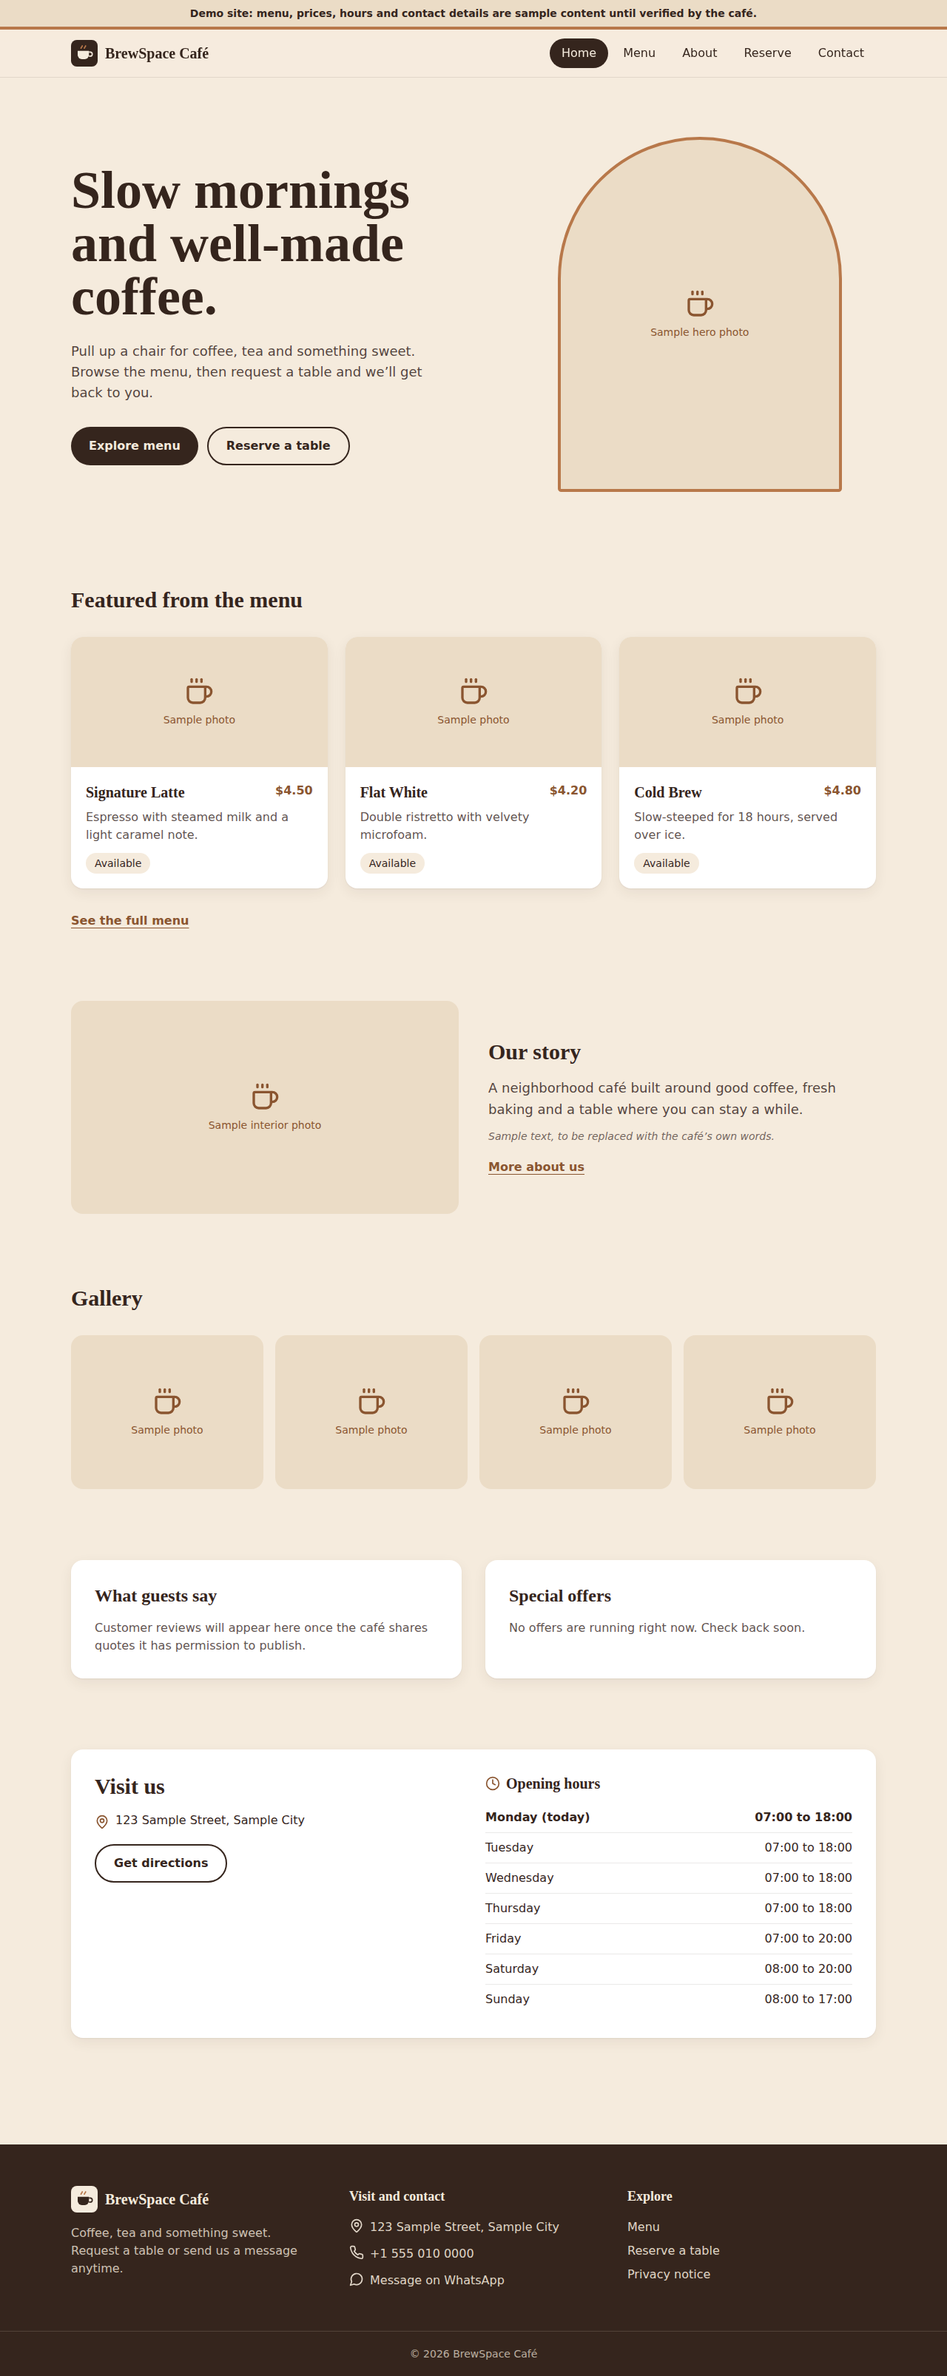
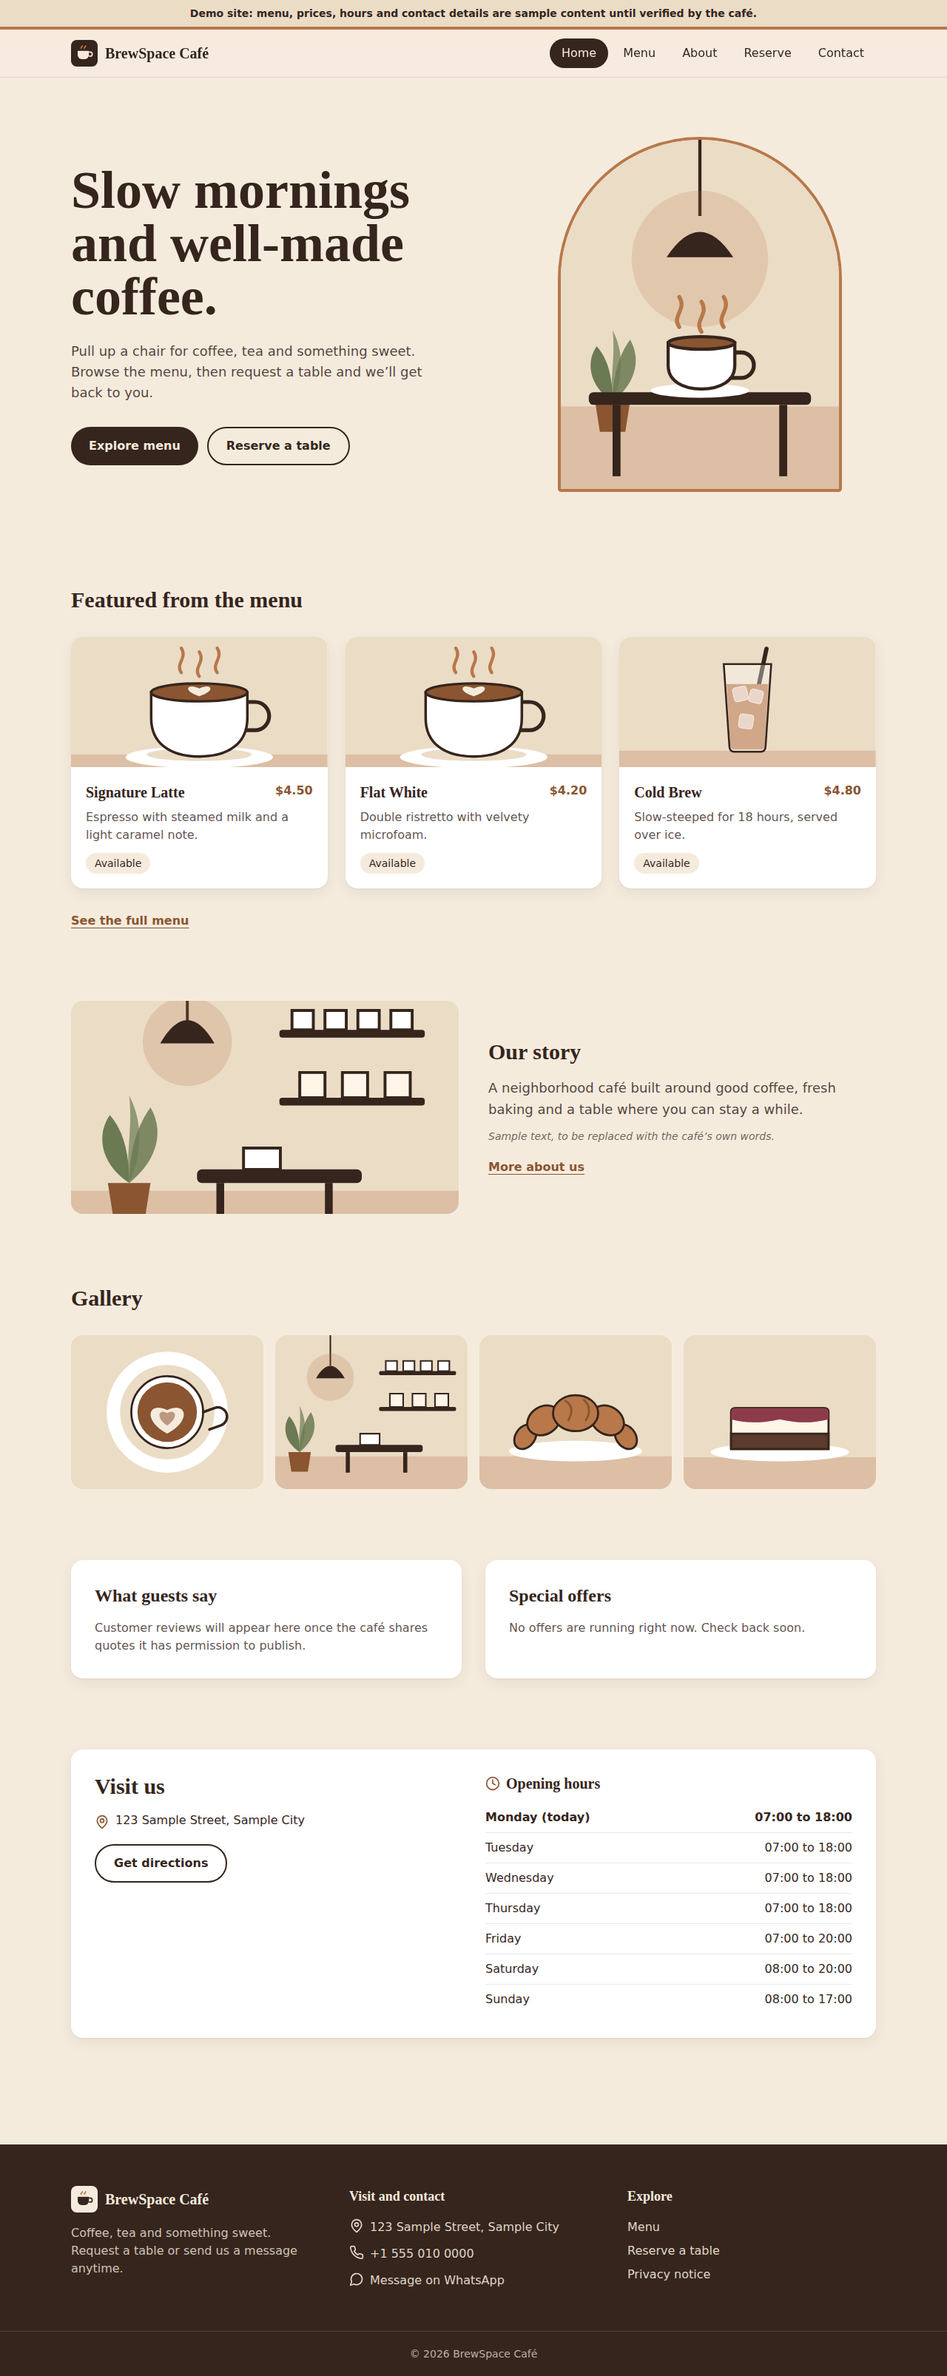
Add original illustrations for hero, gallery, about and menu cards; docs

diff --git a/client/src/components/illustrations.jsx b/client/src/components/illustrations.jsx
@@ -1,0 +1,157 @@
+// Original brand-palette illustrations (no third-party artwork, no licensing issues).
+// They stand in for photography until the café supplies real photos.
+const C = {
+  cream: '#F5EBDD', deep: '#EBDCC6', espresso: '#35251D', caramel: '#B8784A',
+  dark: '#8A5530', white: '#FFFFFF', milk: '#FFF6E8', crust: '#5B3B2B', berry: '#8C3B4A', leaf: '#6B7A52',
+};
+
+function Frame({ label, bg = C.deep, vb = '0 0 400 300', children }) {
+  return (
+    <svg viewBox={vb} preserveAspectRatio="xMidYMid slice" role="img" aria-label={label} className="block h-full w-full">
+      <rect width="100%" height="100%" fill={bg} />
+      {children}
+    </svg>
+  );
+}
+const Table = ({ y = 232 }) => <rect x="0" y={y} width="400" height={300 - y} fill={C.caramel} fillOpacity=".28" />;
+const Steam = ({ x = 200, y = 100 }) => (
+  <g fill="none" stroke={C.caramel} strokeWidth="5" strokeLinecap="round">
+    <path d={`M${x - 28} ${y} c-10 -14 10 -22 0 -38`} />
+    <path d={`M${x} ${y + 6} c-10 -14 10 -22 0 -38`} />
+    <path d={`M${x + 28} ${y} c-10 -14 10 -22 0 -38`} />
+  </g>
+);
+
+export const Latte = () => (
+  <Frame label="Illustration of a latte in a white cup">
+    <Table />
+    <ellipse cx="200" cy="236" rx="115" ry="17" fill={C.white} />
+    <ellipse cx="200" cy="232" rx="82" ry="10" fill={C.deep} />
+    <path d="M275 150 h12 a22 22 0 0 1 0 44 h-16" fill="none" stroke={C.espresso} strokeWidth="6" strokeLinecap="round" />
+    <path d="M125 135 H275 V175 C275 215 245 235 200 235 C155 235 125 215 125 175 Z" fill={C.white} stroke={C.espresso} strokeWidth="4" />
+    <ellipse cx="200" cy="135" rx="75" ry="14" fill={C.dark} stroke={C.espresso} strokeWidth="4" />
+    <path d="M200 141 C172 132 182 120 200 129 C218 120 228 132 200 141 Z" fill={C.cream} />
+    <Steam y={104} />
+  </Frame>
+);
+
+export const TopLatte = () => (
+  <Frame label="Illustration of a latte seen from above">
+    <circle cx="200" cy="150" r="118" fill={C.white} />
+    <circle cx="200" cy="150" r="92" fill={C.deep} />
+    <circle cx="200" cy="150" r="70" fill={C.white} stroke={C.espresso} strokeWidth="4" />
+    <circle cx="200" cy="150" r="58" fill={C.dark} />
+    <path d="M200 192 C150 165 164 128 200 146 C236 128 250 165 200 192 Z" fill={C.cream} />
+    <path d="M200 176 C176 160 184 142 200 152 C216 142 224 160 200 176 Z" fill={C.dark} fillOpacity=".55" />
+    <path d="M270 150 h24 a18 18 0 0 1 0 36 h-24" fill="none" stroke={C.espresso} strokeWidth="5" strokeLinecap="round" transform="rotate(-20 270 150)" />
+  </Frame>
+);
+
+export const Iced = () => (
+  <Frame label="Illustration of an iced drink with a straw">
+    <Table y="226" />
+    {/* scaled into the central safe area so wide, short cards don't crop the straw */}
+    <g transform="translate(200 150) scale(.74) translate(-200 -150)">
+      <path d="M212 170 L240 38" stroke={C.espresso} strokeWidth="9" strokeLinecap="round" />
+      <path d="M156 112 H244 L236 243 Q235 250 227 250 H173 Q165 250 164 243 Z" fill={C.caramel} />
+      <g fill={C.white} fillOpacity=".55" stroke={C.white}>
+        <rect x="170" y="118" width="30" height="30" rx="6" transform="rotate(-12 185 133)" />
+        <rect x="204" y="124" width="28" height="28" rx="6" transform="rotate(14 218 138)" />
+        <rect x="182" y="176" width="30" height="30" rx="6" transform="rotate(8 197 191)" />
+      </g>
+      <path d="M150 70 H250 L238 245 Q237 255 227 255 H173 Q163 255 162 245 Z" fill={C.white} fillOpacity=".35" stroke={C.espresso} strokeWidth="4" />
+    </g>
+  </Frame>
+);
+
+export const Tea = () => (
+  <Frame label="Illustration of a teapot and cup">
+    <Table y="238" />
+    <path d="M110 160 Q62 165 76 205 Q86 226 114 220" fill="none" stroke={C.dark} strokeWidth="12" strokeLinecap="round" />
+    <path d="M238 178 Q292 168 286 118 Q272 152 236 150 Z" fill={C.dark} />
+    <ellipse cx="175" cy="188" rx="74" ry="54" fill={C.dark} />
+    <path d="M133 146 Q175 100 217 146 Z" fill={C.caramel} />
+    <circle cx="175" cy="112" r="9" fill={C.espresso} />
+    <path d="M122 200 Q175 225 228 200" fill="none" stroke={C.cream} strokeWidth="4" strokeLinecap="round" strokeOpacity=".7" />
+    <path d="M296 210 h66 v8 a33 28 0 0 1 -66 0 z" fill={C.white} stroke={C.espresso} strokeWidth="4" />
+    <ellipse cx="329" cy="210" rx="33" ry="7" fill={C.caramel} stroke={C.espresso} strokeWidth="4" />
+  </Frame>
+);
+
+export const Croissant = () => {
+  const seg = { fill: C.caramel, stroke: C.espresso, strokeWidth: 4 };
+  return (
+    <Frame label="Illustration of a croissant on a plate">
+      <Table y="236" />
+      <ellipse cx="200" cy="226" rx="130" ry="20" fill={C.white} />
+      <g transform="translate(200 168)">
+        <ellipse cx="-98" cy="30" rx="26" ry="19" transform="rotate(-55 -98 30)" {...seg} />
+        <ellipse cx="98" cy="30" rx="26" ry="19" transform="rotate(55 98 30)" {...seg} />
+        <ellipse cx="-62" cy="-2" rx="34" ry="27" transform="rotate(-32 -62 -2)" {...seg} />
+        <ellipse cx="62" cy="-2" rx="34" ry="27" transform="rotate(32 62 -2)" {...seg} />
+        <ellipse cx="0" cy="-16" rx="44" ry="35" {...seg} />
+        <path d="M-20 -40 Q0 -28 -14 -2 M16 -42 Q34 -26 20 -2" fill="none" stroke={C.dark} strokeWidth="4" strokeLinecap="round" />
+      </g>
+    </Frame>
+  );
+};
+
+export const Cake = () => (
+  <Frame label="Illustration of a slice of layered cake">
+    <Table y="238" />
+    <ellipse cx="200" cy="228" rx="135" ry="18" fill={C.white} />
+    <path d="M105 150 Q105 142 114 142 H286 Q295 142 295 150 V222 H105 Z" fill={C.milk} stroke={C.espresso} strokeWidth="4" />
+    <path d="M105 192 H295 V222 H105 Z" fill={C.crust} stroke={C.espresso} strokeWidth="4" />
+    <path d="M105 150 Q105 142 114 142 H286 Q295 142 295 150 V164 Q250 176 200 164 Q150 176 105 164 Z" fill={C.berry} />
+  </Frame>
+);
+
+const Plant = ({ x, y }) => (
+  <g transform={`translate(${x} ${y})`}>
+    <path d="M-22 0 H22 L16 38 H-16 Z" fill={C.dark} />
+    <path d="M0 0 C-30 -20 -34 -50 -20 -70 C-4 -52 0 -26 0 0 Z" fill={C.leaf} />
+    <path d="M0 0 C30 -24 36 -54 22 -78 C6 -56 0 -28 0 0 Z" fill={C.leaf} fillOpacity=".85" />
+    <path d="M0 0 C-4 -30 4 -56 0 -90 C16 -60 12 -26 0 0 Z" fill={C.leaf} fillOpacity=".7" />
+  </g>
+);
+
+export const Interior = () => (
+  <Frame label="Illustration of a café interior with a hanging lamp and shelves">
+    <rect x="0" y="236" width="400" height="64" fill={C.caramel} fillOpacity=".28" />
+    <line x1="120" y1="0" x2="120" y2="60" stroke={C.espresso} strokeWidth="3" />
+    <circle cx="120" cy="82" r="46" fill={C.caramel} fillOpacity=".22" />
+    <path d="M92 84 Q120 36 148 84 Z" fill={C.espresso} />
+    <rect x="215" y="70" width="150" height="8" rx="3" fill={C.espresso} />
+    <rect x="215" y="140" width="150" height="8" rx="3" fill={C.espresso} />
+    {[228, 262, 296, 330].map((x) => <path key={x} d={`M${x} 70 v-20 h22 v20 z`} fill={C.white} stroke={C.espresso} strokeWidth="3" />)}
+    {[236, 280, 324].map((x) => <path key={x} d={`M${x} 140 v-26 h26 v26 z`} fill={C.milk} stroke={C.espresso} strokeWidth="3" />)}
+    <Plant x="60" y="228" />
+    <rect x="70" y="214" width="170" height="14" rx="5" fill={C.espresso} transform="translate(60 0)" />
+    <rect x="150" y="228" width="8" height="40" fill={C.espresso} /><rect x="262" y="228" width="8" height="40" fill={C.espresso} />
+    <path d="M178 214 v-22 h38 v22 z" fill={C.white} stroke={C.espresso} strokeWidth="3" />
+  </Frame>
+);
+
+export const Hero = () => (
+  <Frame label="Illustration of a café table with a coffee cup under a hanging lamp" vb="0 0 360 440">
+    <line x1="180" y1="0" x2="180" y2="96" stroke={C.espresso} strokeWidth="4" />
+    <circle cx="180" cy="150" r="86" fill={C.caramel} fillOpacity=".2" />
+    <path d="M138 148 Q180 84 222 148 Z" fill={C.espresso} />
+    <rect x="0" y="336" width="360" height="104" fill={C.caramel} fillOpacity=".28" />
+    <Plant x="70" y="330" />
+    <rect x="40" y="318" width="280" height="16" rx="6" fill={C.espresso} />
+    <rect x="70" y="334" width="10" height="90" fill={C.espresso} /><rect x="280" y="334" width="10" height="90" fill={C.espresso} />
+    <ellipse cx="180" cy="316" rx="62" ry="9" fill={C.white} />
+    <path d="M222 268 h10 a16 16 0 0 1 0 32 h-12" fill="none" stroke={C.espresso} strokeWidth="5" strokeLinecap="round" />
+    <path d="M140 256 H224 V284 C224 304 206 314 182 314 C158 314 140 304 140 284 Z" fill={C.white} stroke={C.espresso} strokeWidth="4" />
+    <ellipse cx="182" cy="256" rx="42" ry="8" fill={C.dark} stroke={C.espresso} strokeWidth="4" />
+    <Steam x={182} y={236} />
+  </Frame>
+);
+
+// Menu category -> illustration
+export const categoryArt = {
+  'Hot Coffee': Latte, 'Cold Drinks': Iced, Tea, Snacks: Croissant, Desserts: Cake,
+};
+// Gallery rotation (varied scenes)
+export const galleryArt = [TopLatte, Interior, Croissant, Cake, Iced, Tea];

diff --git a/client/src/pages/Home.jsx b/client/src/pages/Home.jsx
@@ -2,6 +2,7 @@ import { Link } from 'react-router-dom';
 import { Clock, MapPin } from 'lucide-react';
 import PhotoSlot from '../components/PhotoSlot.jsx';
 import MenuCard from '../components/MenuCard.jsx';
+import { Hero, Interior, galleryArt } from '../components/illustrations.jsx';
 import { Loading, ErrorState } from '../components/States.jsx';
 import { useMenu } from '../hooks/useMenu.js';
 import { useDocumentTitle } from '../hooks/useDocumentTitle.js';
@@ -26,7 +27,7 @@ export default function Home() {
             <Link to="/reservations" className="btn btn-secondary">Reserve a table</Link>
           </div>
         </div>
-        <PhotoSlot photo={business.photos[0]} label="Sample hero photo" className="mx-auto h-[26rem] w-full max-w-sm rounded-t-[999px] rounded-b-3xl border-4 border-caramel md:h-[30rem]" />
+        <PhotoSlot photo={business.photos[0]} art={Hero} label="Sample hero photo" className="mx-auto h-[26rem] w-full max-w-sm rounded-t-[999px] rounded-b-3xl border-4 border-caramel md:h-[30rem]" />
       </section>
 
       <section className="container-page py-12" aria-labelledby="featured-h">
@@ -43,7 +44,7 @@ export default function Home() {
       </section>
 
       <section className="container-page grid gap-10 py-12 md:grid-cols-2 md:items-center" aria-labelledby="about-h">
-        <PhotoSlot photo={business.photos[1]} label="Sample interior photo" className="h-72 w-full rounded-2xl" />
+        <PhotoSlot photo={business.photos[1]} art={Interior} label="Sample interior photo" className="h-72 w-full rounded-2xl" />
         <div>
           <h2 id="about-h" className="text-3xl font-semibold">Our story</h2>
           <p className="mt-4 text-lg leading-relaxed text-espresso/85">A neighborhood café built around good coffee, fresh baking and a table where you can stay a while.</p>
@@ -55,7 +56,7 @@ export default function Home() {
       <section className="container-page py-12" aria-labelledby="gallery-h">
         <h2 id="gallery-h" className="text-3xl font-semibold">Gallery</h2>
         <div className="mt-8 grid grid-cols-2 gap-4 md:grid-cols-4">
-          {[0, 1, 2, 3].map((n) => <PhotoSlot key={n} photo={business.photos[n + 2]} label="Sample photo" className="h-40 w-full rounded-2xl md:h-52" />)}
+          {[0, 1, 2, 3].map((n) => <PhotoSlot key={n} photo={business.photos[n + 2]} art={galleryArt[n]} className="h-40 w-full rounded-2xl md:h-52" />)}
         </div>
       </section>
 

diff --git a/client/tests/PhotoSlot.test.jsx b/client/tests/PhotoSlot.test.jsx
@@ -1,0 +1,36 @@
+import { render, screen } from '@testing-library/react';
+import PhotoSlot from '../src/components/PhotoSlot.jsx';
+import MenuCard from '../src/components/MenuCard.jsx';
+import { Latte, categoryArt } from '../src/components/illustrations.jsx';
+
+describe('PhotoSlot image priority', () => {
+  it('uses a real photo when provided, lazy-loaded, over any illustration', () => {
+    render(<PhotoSlot photo={{ src: '/photos/cafe.jpg', alt: 'The café front' }} art={Latte} />);
+    const img = screen.getByRole('img', { name: 'The café front' });
+    expect(img.tagName).toBe('IMG');
+    expect(img).toHaveAttribute('loading', 'lazy');
+    expect(screen.queryByRole('img', { name: /illustration/i })).not.toBeInTheDocument();
+  });
+  it('falls back to an accessible illustration', () => {
+    render(<PhotoSlot art={Latte} />);
+    expect(screen.getByRole('img', { name: /illustration of a latte/i })).toBeInTheDocument();
+  });
+  it('falls back to a labeled placeholder when there is neither', () => {
+    render(<PhotoSlot />);
+    expect(screen.getByRole('img', { name: /sample photo placeholder/i })).toBeInTheDocument();
+  });
+});
+
+describe('MenuCard images', () => {
+  const base = { id: '1', name: 'X', description: 'd', price: 3, available: true };
+  it.each(['Hot Coffee', 'Cold Drinks', 'Tea', 'Snacks', 'Desserts'])('shows an illustration for %s', (category) => {
+    render(<MenuCard item={{ ...base, category }} />);
+    expect(screen.getByRole('img', { name: /^illustration of/i })).toBeInTheDocument();
+    expect(categoryArt[category]).toBeTypeOf('function');
+  });
+  it('prefers the item’s own image_url over the illustration', () => {
+    render(<MenuCard item={{ ...base, category: 'Tea', image_url: 'https://example.com/tea.jpg' }} />);
+    expect(screen.getByRole('img', { name: 'X' }).tagName).toBe('IMG');
+    expect(screen.queryByRole('img', { name: /illustration/i })).not.toBeInTheDocument();
+  });
+});

diff --git a/client/src/pages/About.jsx b/client/src/pages/About.jsx
@@ -1,4 +1,5 @@
 import PhotoSlot from '../components/PhotoSlot.jsx';
+import { Interior, galleryArt } from '../components/illustrations.jsx';
 import { useDocumentTitle } from '../hooks/useDocumentTitle.js';
 import { business } from '../config/business.js';
 
@@ -12,11 +13,11 @@ export default function About() {
           <p>We’re a café focused on good coffee, simple food and a comfortable place to sit. This page is where the owner’s real story goes: who started the café, what you serve and what makes it yours.</p>
           {business.isSample && <p className="rounded-xl bg-cream-deep p-4 text-base">Sample content. Please replace this text and the photos with details and images verified and authorized by the café owner.</p>}
         </div>
-        <PhotoSlot photo={business.photos[1]} label="Sample ambience photo" className="h-72 w-full rounded-2xl" />
+        <PhotoSlot photo={business.photos[1]} art={Interior} label="Sample ambience photo" className="h-72 w-full rounded-2xl" />
       </div>
       <h2 className="mt-16 text-3xl font-semibold">Gallery</h2>
       <div className="mt-6 grid grid-cols-2 gap-4 md:grid-cols-3">
-        {[0, 1, 2, 3, 4, 5].map((n) => <PhotoSlot key={n} photo={business.photos[n + 2]} label="Sample photo" className="h-44 w-full rounded-2xl md:h-56" />)}
+        {[0, 1, 2, 3, 4, 5].map((n) => <PhotoSlot key={n} photo={business.photos[n + 2]} art={galleryArt[n]} className="h-44 w-full rounded-2xl md:h-56" />)}
       </div>
     </div>
   );

diff --git a/client/src/components/PhotoSlot.jsx b/client/src/components/PhotoSlot.jsx
@@ -1,10 +1,11 @@
 import { Coffee } from 'lucide-react';
 
-// Shows an authorized photo when provided; otherwise an honest, labeled placeholder.
-export default function PhotoSlot({ photo, className = '', label = 'Sample photo' }) {
+// Priority: authorized real photo > illustration > labeled placeholder.
+export default function PhotoSlot({ photo, art: Art, className = '', label = 'Sample photo' }) {
   if (photo?.src) {
     return <img src={photo.src} alt={photo.alt || ''} loading="lazy" decoding="async" className={`object-cover ${className}`} />;
   }
+  if (Art) return <div className={`overflow-hidden ${className}`}><Art /></div>;
   return (
     <div role="img" aria-label={`${label} placeholder`} className={`flex flex-col items-center justify-center gap-2 bg-cream-deep text-caramel-dark ${className}`}>
       <Coffee className="h-10 w-10" aria-hidden="true" />

diff --git a/client/src/components/MenuCard.jsx b/client/src/components/MenuCard.jsx
@@ -1,10 +1,11 @@
 import PhotoSlot from './PhotoSlot.jsx';
+import { categoryArt } from './illustrations.jsx';
 import { formatPrice } from '../config/business.js';
 
 export default function MenuCard({ item }) {
   return (
     <article className={`card overflow-hidden ${item.available ? '' : 'opacity-75'}`}>
-      <PhotoSlot photo={item.image_url ? { src: item.image_url, alt: item.name } : null} label="Sample photo" className="h-44 w-full" />
+      <PhotoSlot photo={item.image_url ? { src: item.image_url, alt: item.name } : null} art={categoryArt[item.category]} className="h-44 w-full" />
       <div className="p-5">
         <div className="flex items-start justify-between gap-3">
           <h3 className="text-xl font-semibold">{item.name}</h3>

diff --git a/README.md b/README.md
@@ -84,7 +84,7 @@ Full steps are in [`supabase/README.md`](supabase/README.md). In short:
 
 ```bash
 npm run test:server    # 65 API tests (Supertest, mocked Supabase)
-npm run test:client    # 46 UI tests (Vitest + React Testing Library, mocked fetch/Supabase)
+npm run test:client    # 55 UI tests (Vitest + React Testing Library, mocked fetch/Supabase)
 npm run build          # production build of the client
 ```
 
@@ -115,7 +115,10 @@ Run this against your real Supabase project (locally, then again on the live dep
 
 1. Get the owner's written confirmation of name, address, phone, WhatsApp, hours, menu and prices. Do not publish anything you cannot verify.
 2. Edit the `VITE_BUSINESS_*` values (see `.env.example`). Opening hours, testimonials, offers and photos live in `client/src/config/business.js`.
-3. Photos: only add images the café owns or has licensed. Put them in `client/public/` and list them under `photos` (`{ src, alt }`); until then the site shows labeled placeholders.
+3. Images: the site ships with **original illustrations** (a latte, iced drink, teapot, croissant, cake slice, café interior), drawn in the brand palette in `client/src/components/illustrations.jsx`. They are artwork, not photos of the real café, and the menu pictures are per *category* (not per item), so they won't match every dish exactly. Replace them with real photos the café owns or has licensed:
+   - Put image files in `client/public/photos/` and list them in `photos` in `client/src/config/business.js` as `{ src: '/photos/name.jpg', alt: 'Describe the photo' }`. Slot 0 is the home hero, slot 1 is the interior (home "Our story" and the About page), slots 2 to 7 are the gallery. Any slot you fill replaces its illustration automatically; empty slots keep the illustration.
+   - Menu items: set an **Image link** on the item in the admin area. That photo replaces the category illustration for that item.
+   - Use optimized files (roughly under 300 KB each); photos are lazy-loaded.
 4. Testimonials: add only real quotes you have permission to publish. Leave the list empty otherwise.
 5. Replace the draft privacy notice (`client/src/pages/Privacy.jsx`) with text reviewed by the owner and, where required, a legal professional.
 6. Replace `YOUR-DOMAIN.example` in `client/public/sitemap.xml` and `robots.txt`.
@@ -167,11 +170,12 @@ Reservations are **requests**. There is no live table availability; the café co
 
 ## 11. Screenshots
 
-Captured from the production build in headless Chromium against a **stub API with sample data** (not a live deployment). The sandbox could not load Google Fonts, so headings appear in the fallback serif font. Replace these with captures of your live site.
+Captured from the production build in headless Chromium against a **stub API with sample data** (not a live deployment). The pictures are the built-in illustrations, not photos. The sandbox could not load Google Fonts, so headings appear in the fallback serif font. Replace these with captures of your live site.
 
 | | |
 |---|---|
 | ![Home, desktop](docs/screenshots/home-desktop.png) | ![Menu, desktop](docs/screenshots/menu-desktop.png) |
-| ![Home, mobile](docs/screenshots/home-mobile.png) | ![Reservation form, mobile](docs/screenshots/reserve-mobile.png) |
+| ![About and gallery, desktop](docs/screenshots/about-desktop.png) | ![Reservation form, mobile](docs/screenshots/reserve-mobile.png) |
+| ![Home, mobile](docs/screenshots/home-mobile.png) | |
 
 Admin screens have not been captured yet.
